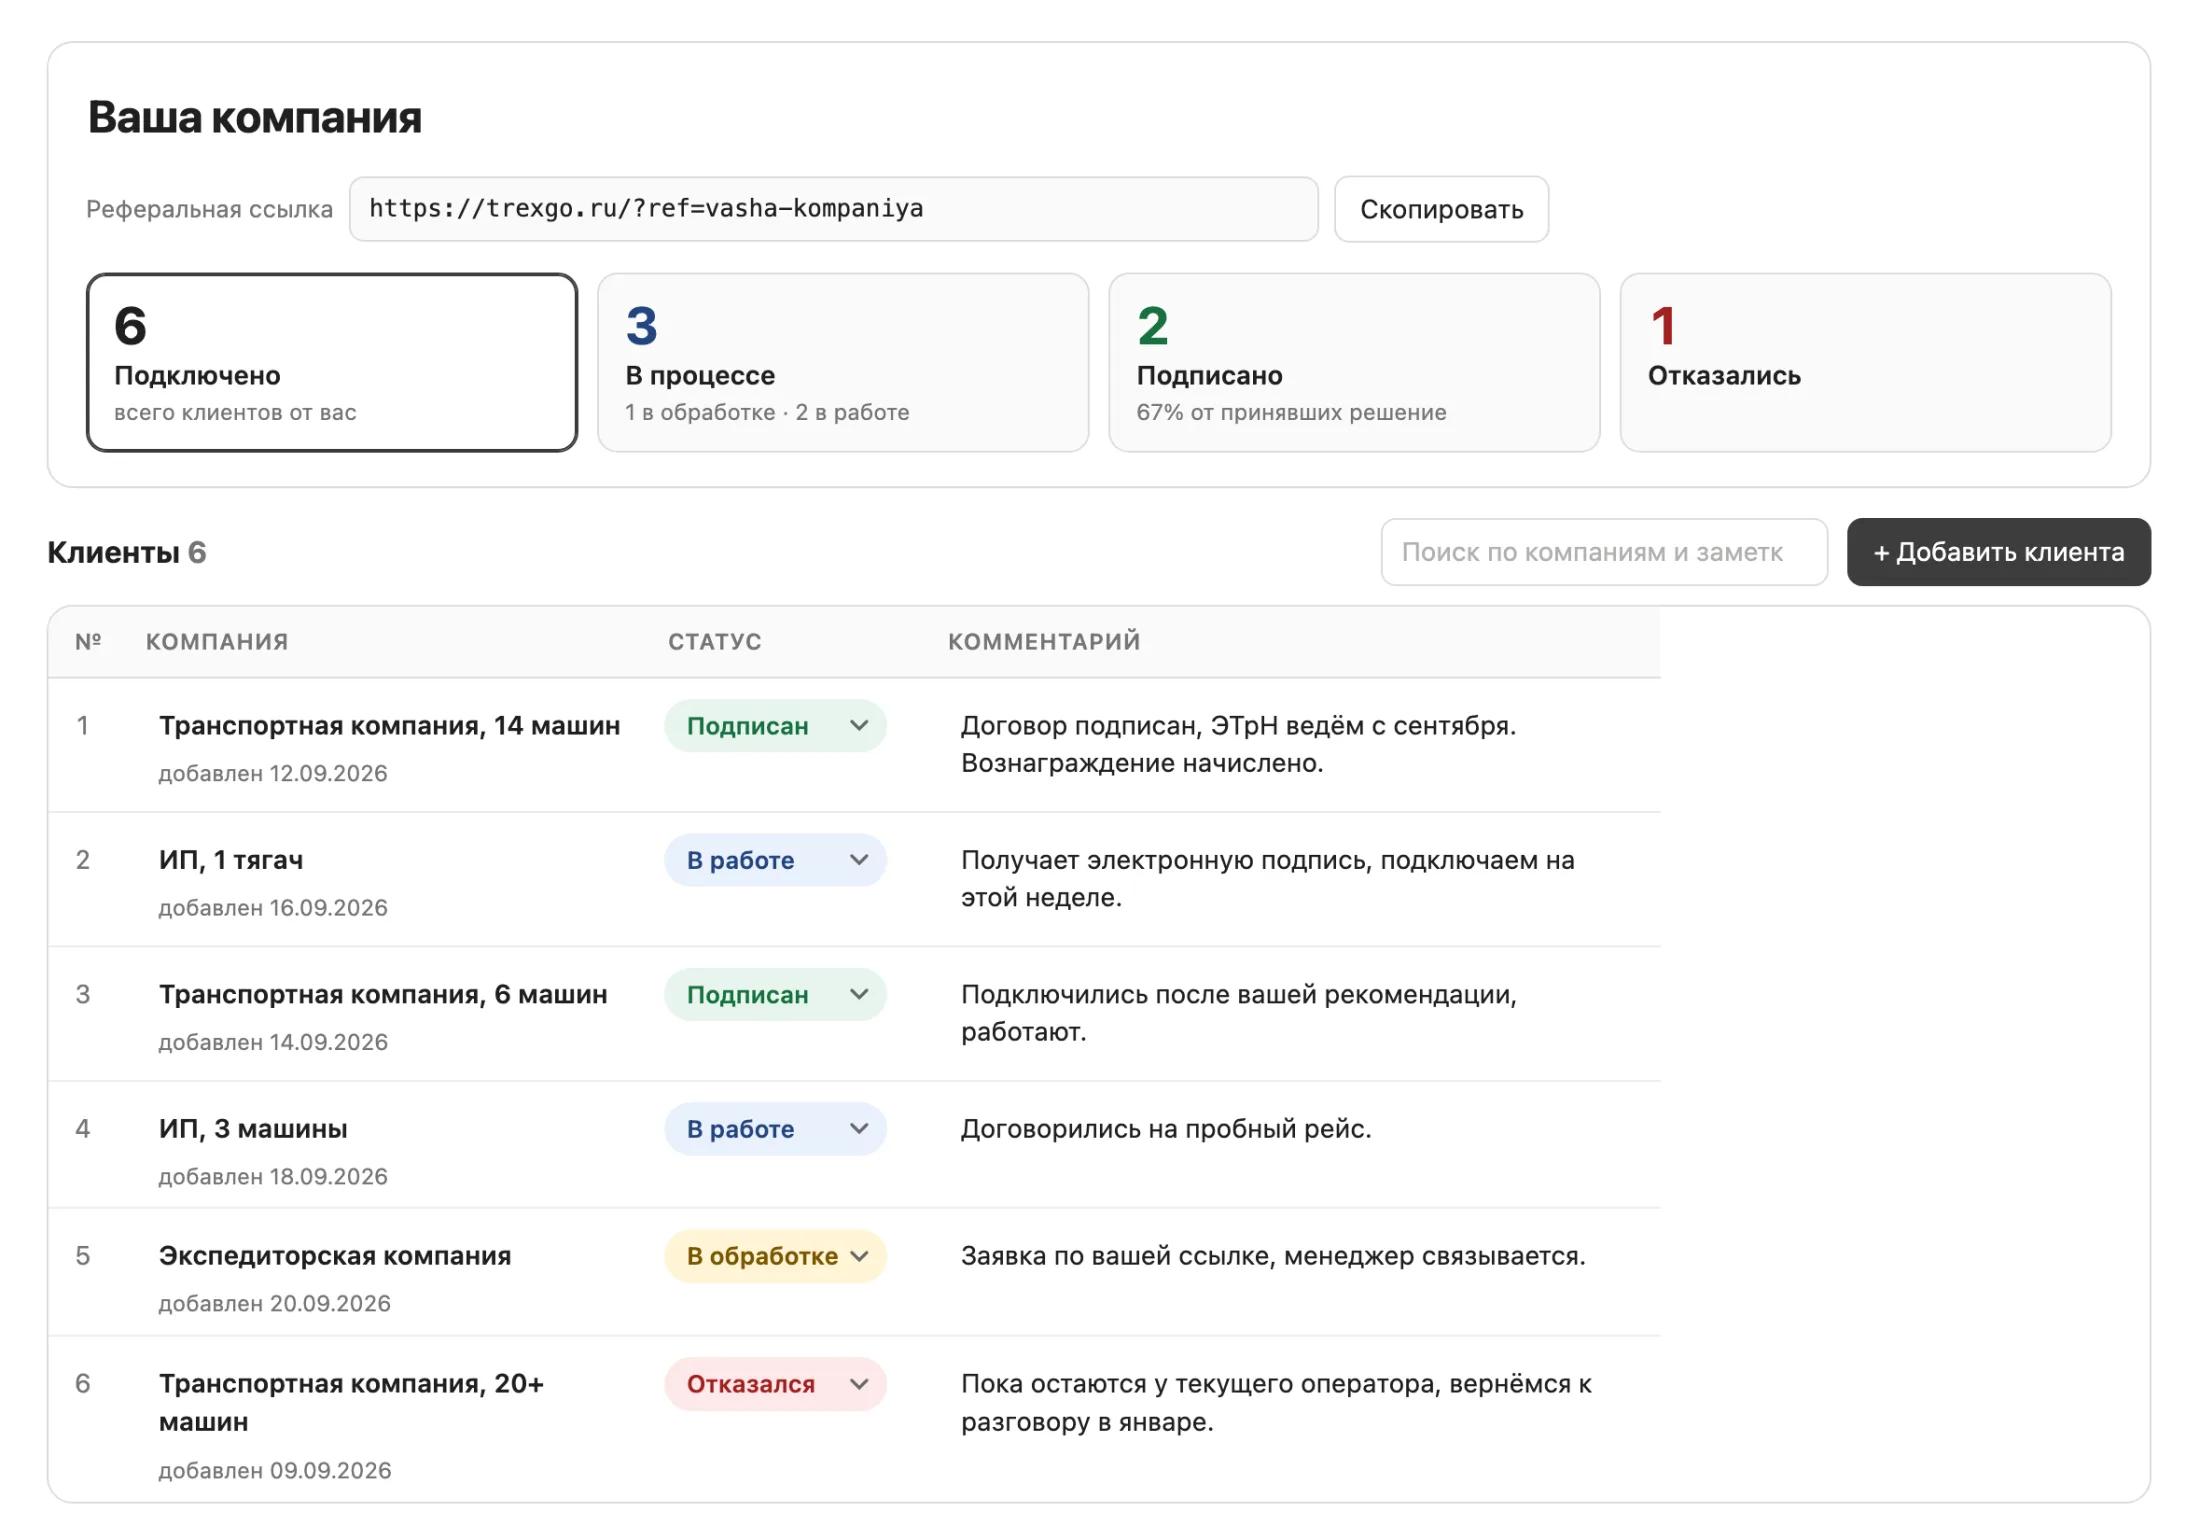
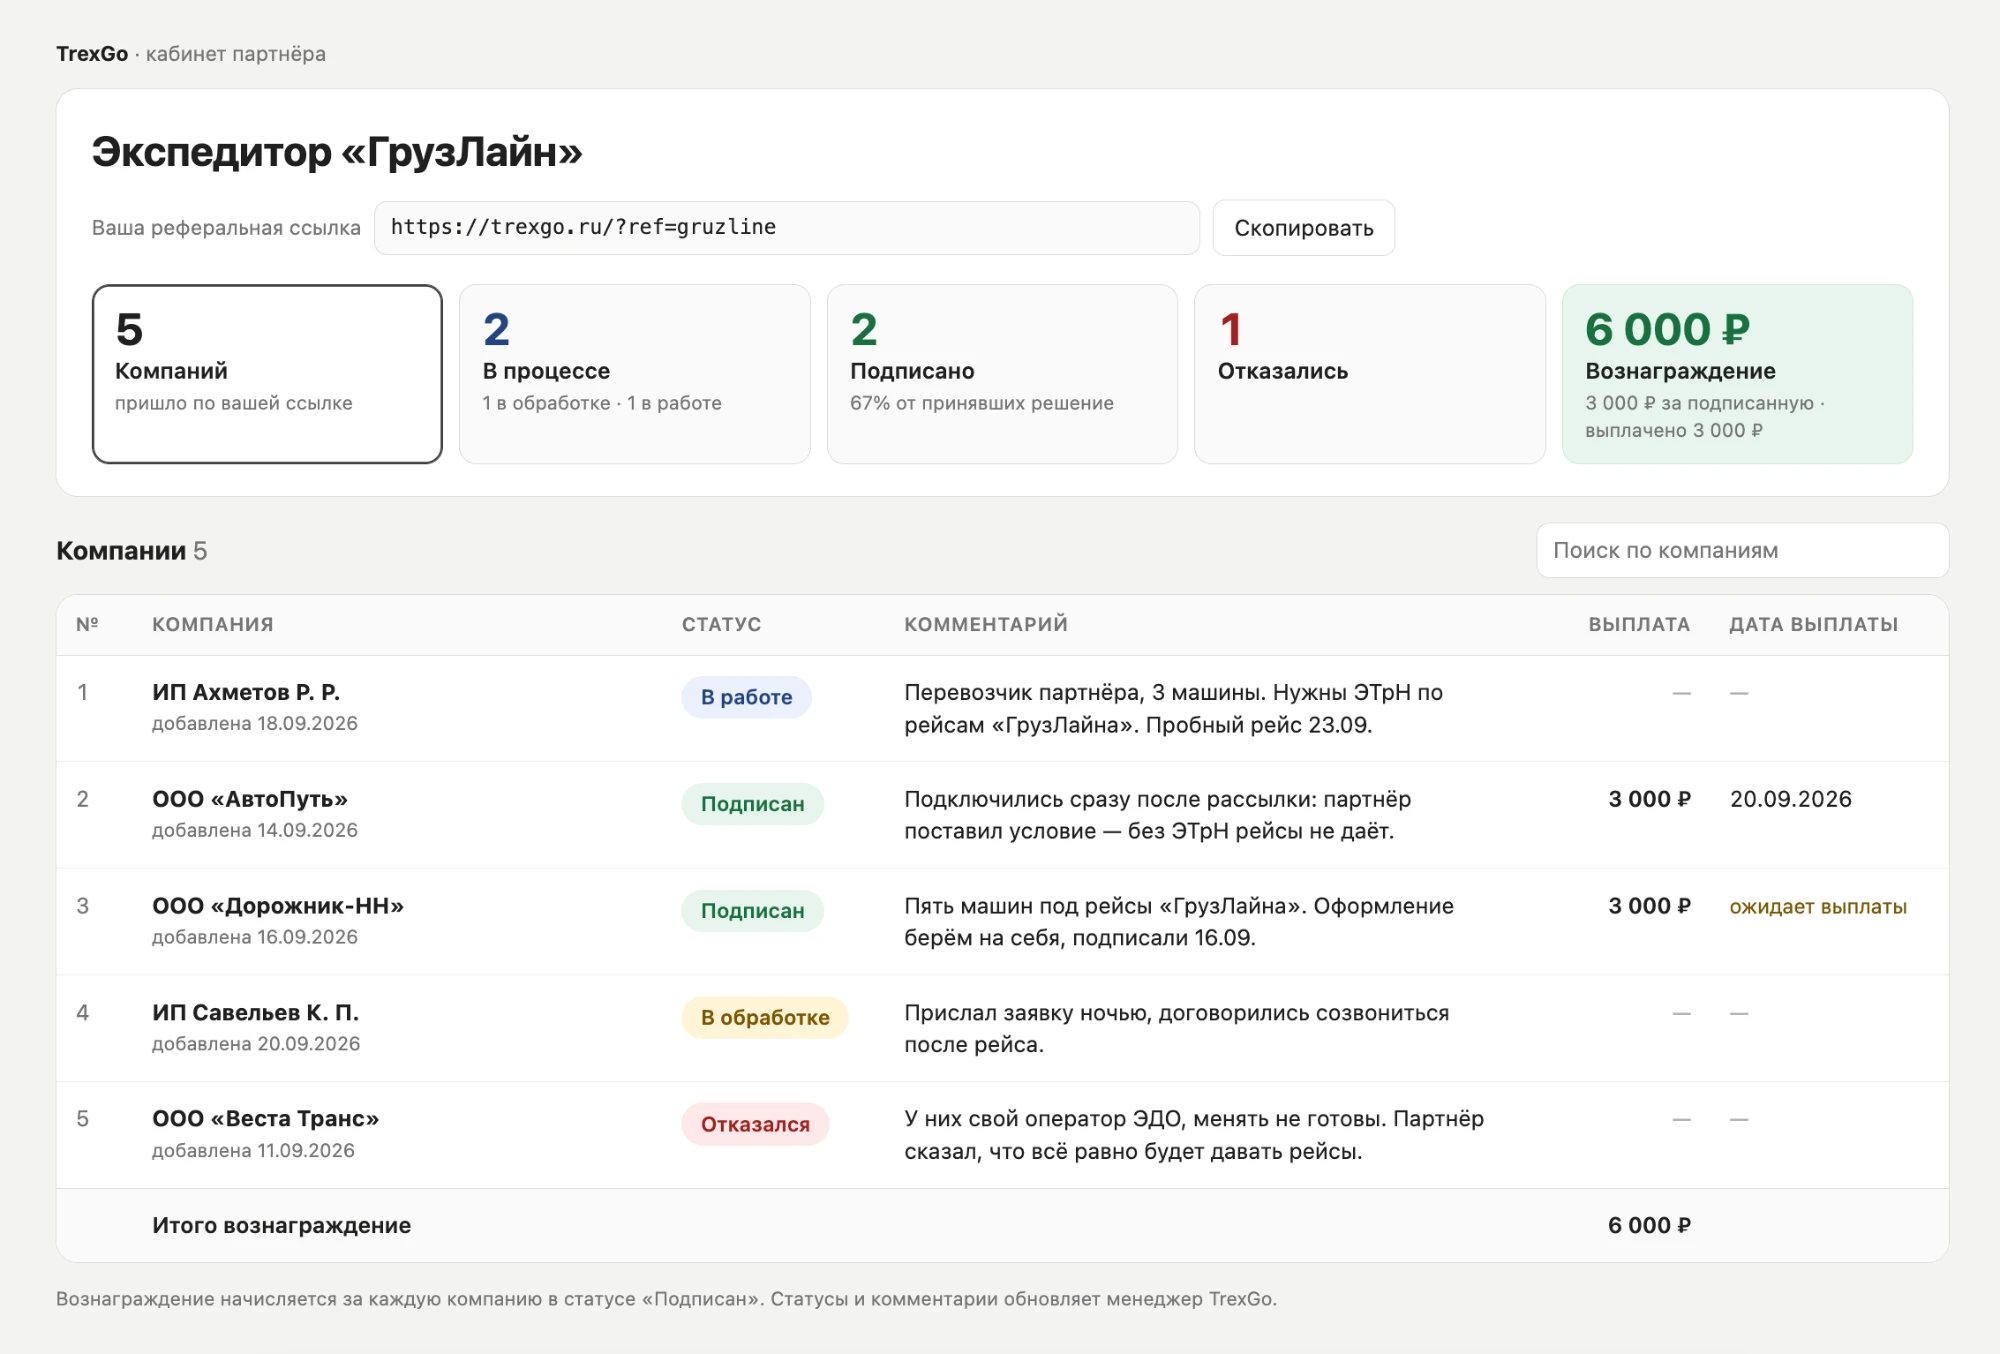
Партнёрам: новый скриншот кабинета — с вознаграждением и выплатами
Скриншот Сергея: счётчик «Вознаграждение», колонки «Выплата» и «Дата выплаты»,
итог по таблице. Третий пункт списка под скриншотом переписан с комментария
менеджера на вознаграждение; в адресной строке рамки убран повтор заголовка.

diff --git a/partners.html b/partners.html
@@ -281,16 +281,16 @@
     <figure class="pt-shot">
       <div class="pt-shot-bar">
         <span class="pt-dots"><i></i><i></i><i></i></span>
-        <span class="pt-shot-url">trexgo.ru — кабинет партнёра</span>
+        <span class="pt-shot-url">trexgo.ru/partner</span>
       </div>
-      <div class="pt-shot-scroll"><img src="img/partner-cabinet.webp" width="2200" height="1540" alt="Кабинет партнёра: реферальная ссылка, счётчики «Подключено», «В процессе», «Подписано», «Отказались» и таблица клиентов со статусами и комментариями" loading="lazy" /></div>
+      <div class="pt-shot-scroll"><img src="img/partner-cabinet.webp" width="2000" height="1354" alt="Кабинет партнёра: реферальная ссылка, счётчики «Компаний», «В процессе», «Подписано», «Отказались» и «Вознаграждение», таблица компаний со статусами, комментариями и суммами выплат" loading="lazy" /></div>
     </figure>
     <p class="pt-shot-note">На скриншоте — демонстрационные данные.<span class="pt-shot-hint"> Прокрутите изображение вбок, чтобы рассмотреть таблицу.</span></p>
 
     <ul class="pt-cab">
       <li><b>Персональная ссылка</b>Чтобы заявка с сайта сразу связалась с вами.</li>
       <li><b>Статус каждого клиента</b>В обработке, в работе, подписан или отказался — и почему.</li>
-      <li><b>Комментарий менеджера</b>Коротко, что происходит: ждём подпись, вышли на пробный рейс, вернуться в январе.</li>
+      <li><b>Вознаграждение по каждой компании</b>Сколько начислено, что уже выплачено и что ждёт выплаты.</li>
     </ul>
   </div>
 </section>
